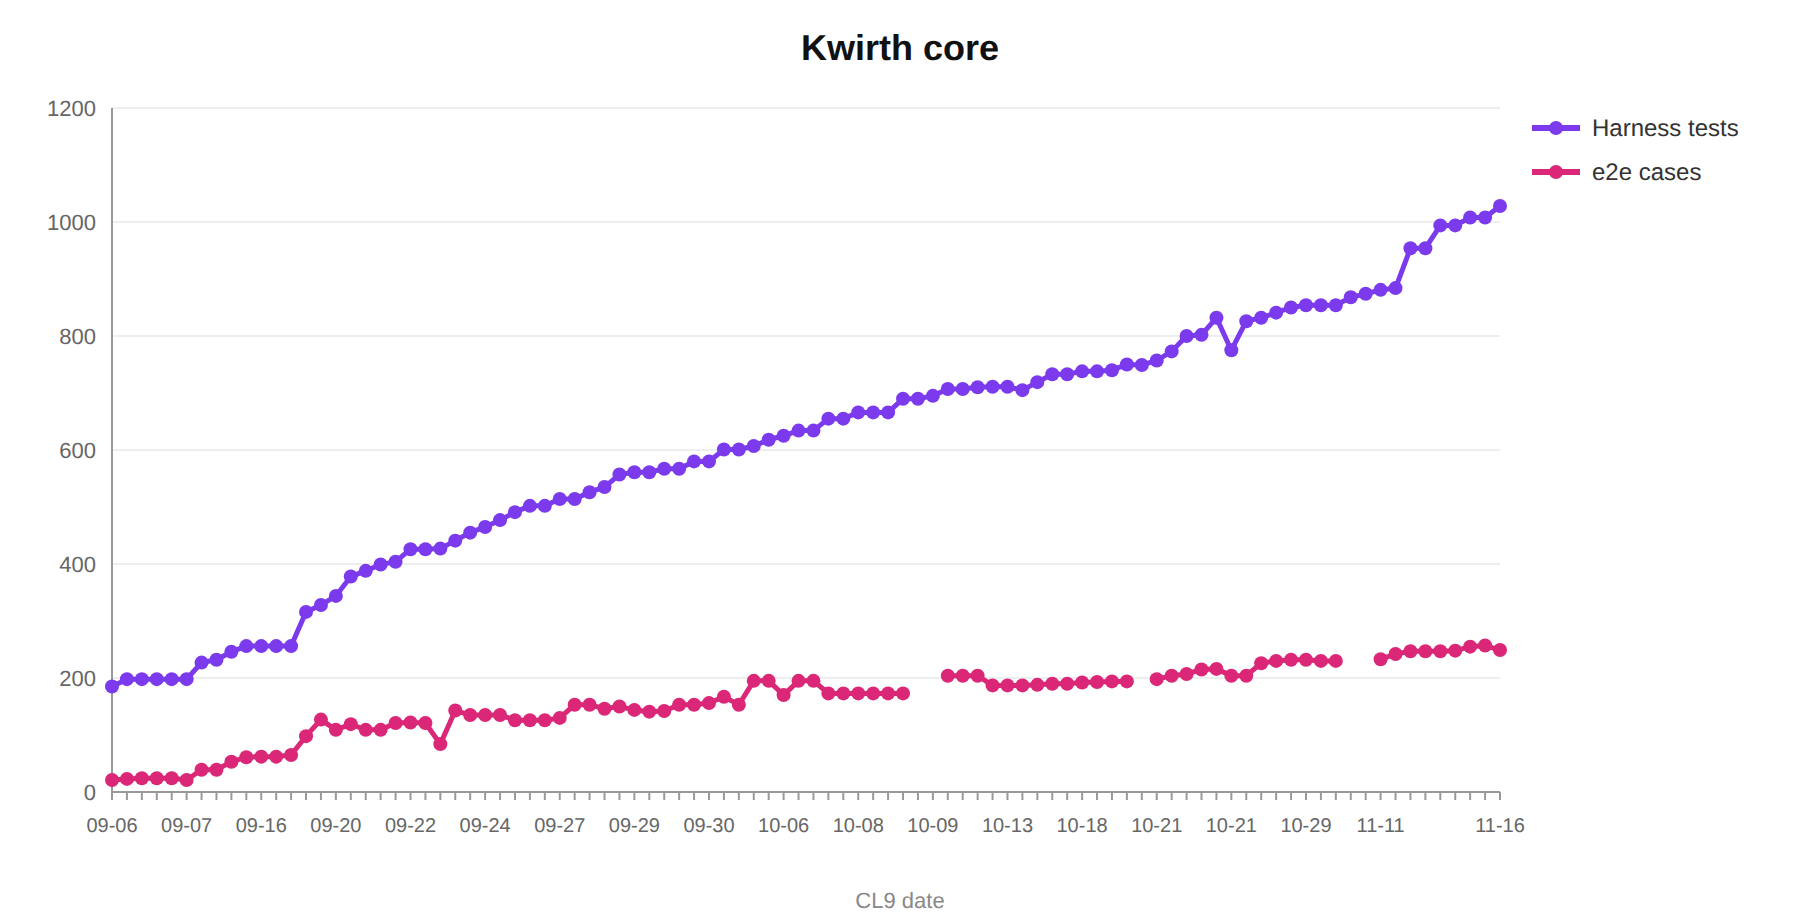
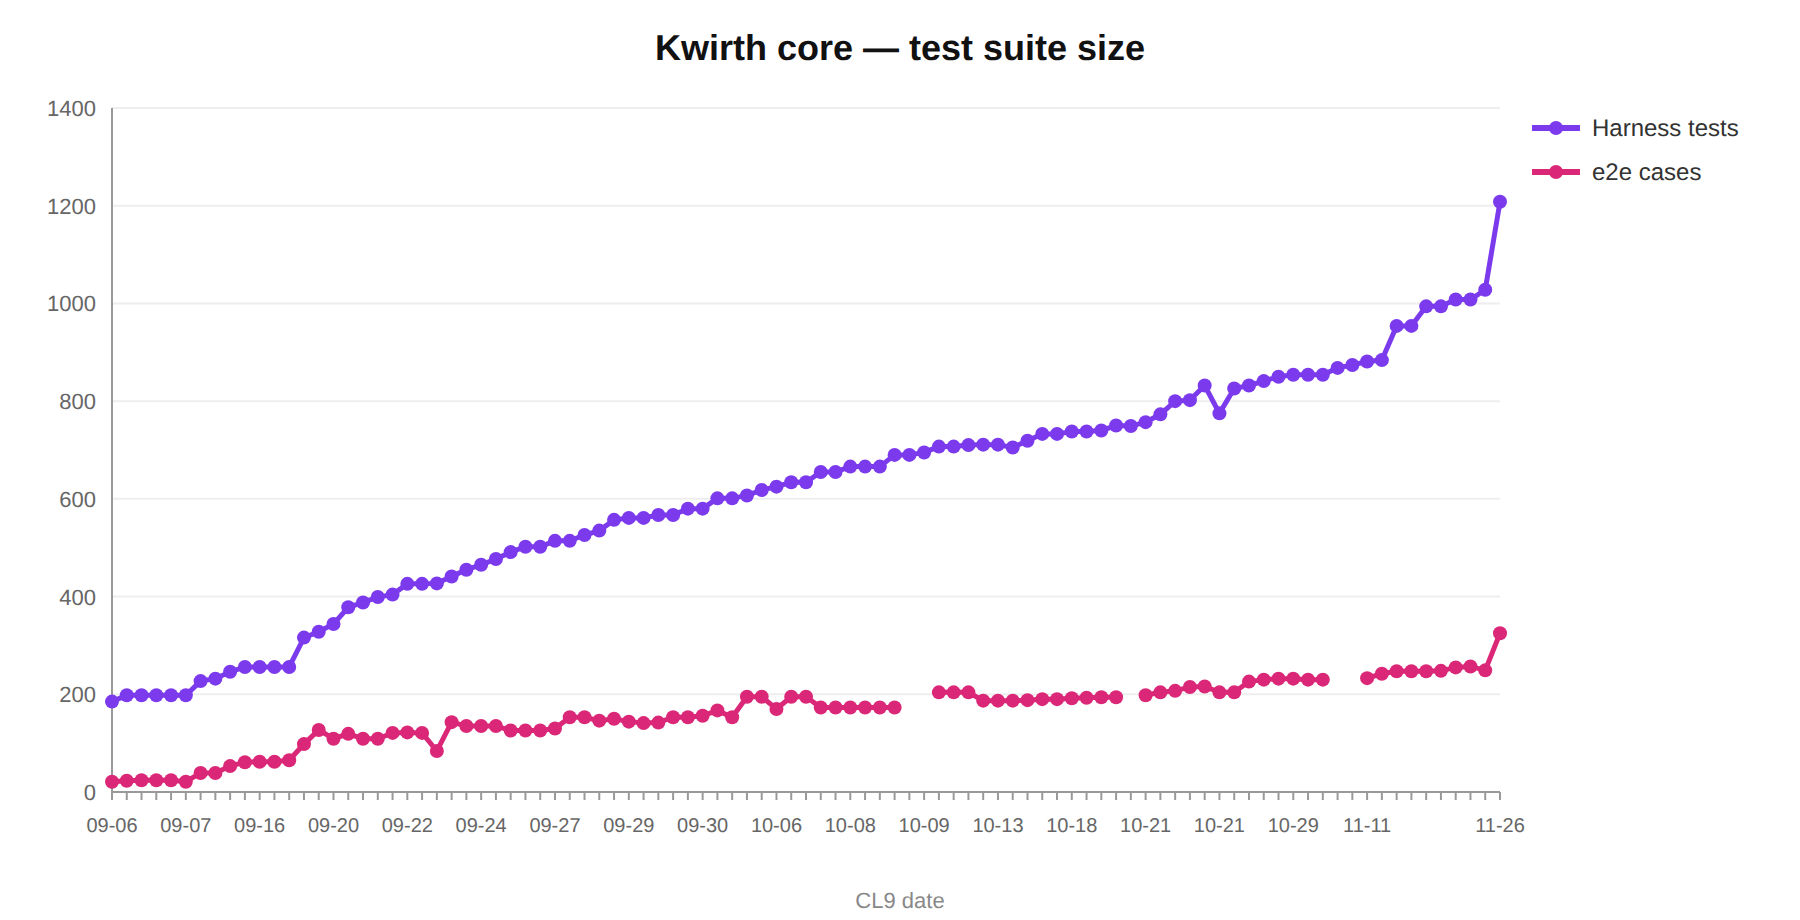
docs(plans): cluster-login closed and moved to completed — QA validated; core test metrics

diff --git a/front/src/components/home/ManageClusters.tsx b/front/src/components/home/ManageClusters.tsx
@@ -48,7 +48,7 @@ const ManageClusters: React.FC<IManageClustersProps> = (props:IManageClustersPro
     const [routeResolver, setRouteResolver] = useState<string>(DIRECT_ROUTE)
     const [routeUid, setRouteUid] = useState<string>('')
     const [inUse, setInUse] = useState<boolean>(true)
-    // How it authenticates (plans/cluster-login): an access key pasted in, or a sign-in to the remote when used
+    // How it authenticates (plans/completed/cluster-login): an access key pasted in, or a sign-in to the remote when used
     const [credentials, setCredentials] = useState<EClusterCredentials>(EClusterCredentials.KEY)
     const isLogin = credentials === EClusterCredentials.LOGIN
     const [keyRevealed, setKeyRevealed] = useState<boolean>(false)     // the API key is a secret: masked, with the eye
@@ -309,7 +309,7 @@ const ManageClusters: React.FC<IManageClustersProps> = (props:IManageClustersPro
                                 <TextField value={selectedCluster?.id || ''} disabled variant='standard' label='Id'></TextField>
                                 <TextField value={url} onChange={(e) => setUrl(e.target.value)} disabled={selectedCluster?.home} variant='standard' label='URL'></TextField>
                                 {/*
-                                    How it authenticates, apart from how it is reached (plans/cluster-login, D1): an API key, or
+                                    How it authenticates, apart from how it is reached (plans/completed/cluster-login, D1): an API key, or
                                     a sign-in to the remote with any of ITS users when the cluster is used. On its row, the session
                                     of a Login entry and its Sign out — always there (empty / disabled for an API key entry), so
                                     choosing one or the other moves nothing.

diff --git a/front/src/tools/Global.ts b/front/src/tools/Global.ts
@@ -158,7 +158,7 @@ export const recheckCluster = async (cluster: Cluster): Promise<boolean> => {
                 try {
                     /*
                         A LOGIN entry is checked on /config/cluster, which asks for the key: /config/info is public and
-                        would answer 200 to a session that is gone. Refused = expired or revoked (plans/cluster-login, D5).
+                        would answer 200 to a session that is gone. Refused = expired or revoked (plans/completed/cluster-login, D5).
                     */
                     const path = isLoginCluster(cluster) ? 'config/cluster' : 'config/info'
                     const response = await fetch(`${base}/${path}`, { ...addGetAuthorization(cluster.accessString), signal: AbortSignal.timeout(RECHECK_TIMEOUT_MS) })

diff --git a/front/src/App.tsx b/front/src/App.tsx
@@ -2618,7 +2618,7 @@ const App: React.FC<IAppProps> = (props:IAppProps) => {
  
     /*
         Saves the user's cluster list (everything but the home entry). Used by Manage clusters on close and by a
-        sign-in to a LOGIN cluster, which keeps the key it obtained in its entry (plans/cluster-login, D2).
+        sign-in to a LOGIN cluster, which keeps the key it obtained in its entry (plans/completed/cluster-login, D2).
         Returns whether it was sent: false when the list was never loaded.
     */
     const saveClusterList = (cc: Cluster[]): boolean => {

diff --git a/front/src/components/home/ResourceSelector.tsx b/front/src/components/home/ResourceSelector.tsx
@@ -248,7 +248,7 @@ const ResourceSelector: React.FC<IResourceSelectorProps> = (props:IResourceSelec
 
     /*
         A LOGIN entry with no session, or whose session expired, is not selected straight away: the sign-in dialog
-        opens first (plans/cluster-login), and only once signed in is the cluster selected. Cancelling leaves the
+        opens first (plans/completed/cluster-login), and only once signed in is the cluster selected. Cancelling leaves the
         selection as it was.
     */
     const onChangeCluster = (event: SelectChangeEvent) => {

diff --git a/front/tests/clusterLogin.test.ts b/front/tests/clusterLogin.test.ts
@@ -3,7 +3,7 @@ import assert from 'node:assert/strict'
 import { clusterLoginOutcomeOf, clusterLoginUnreachable, EClusterLoginOutcome } from '../src/tools/ClusterLoginOutcome.ts'
 
 /*
-    What a sign-in against a REMOTE Kwirth came to (plan: plans/cluster-login/PRD.md), from the answers its
+    What a sign-in against a REMOTE Kwirth came to (plan: plans/completed/cluster-login/PRD.md), from the answers its
     POST /login really gives (back/src/api/LoginApi.ts). Each outcome has to tell the user what to do: a bare
     'failed' is what this replaces.
 */

diff --git a/front/src/model/Cluster.ts b/front/src/model/Cluster.ts
@@ -2,7 +2,7 @@ import { EClusterFlavour, ERancherRole, IClusterRoute, KwirthData } from '@kwirt
 import { MetricDefinition } from '@kwirthmagnify/kwirth-common-front'
 
 /*
-    How an entry of the cluster list authenticates against its Kwirth (plan: plans/cluster-login/PRD.md, D1). It is
+    How an entry of the cluster list authenticates against its Kwirth (plan: plans/completed/cluster-login/PRD.md, D1). It is
     independent of HOW it is reached (direct or through a router, `route`): a cluster behind a bridge can go with
     a login too.
 */

diff --git a/front/src/tools/ClusterLogin.ts b/front/src/tools/ClusterLogin.ts
@@ -7,7 +7,7 @@ import { clusterLoginOutcomeOf, clusterLoginUnreachable, EClusterLoginOutcome, I
 
 /*
     Signing in to a REMOTE Kwirth from an entry of the cluster list whose credentials are LOGIN
-    (plan: plans/cluster-login/PRD.md).
+    (plan: plans/completed/cluster-login/PRD.md).
 
     The remote's user has nothing to do with the user of THIS Kwirth: logged in here as 'admin', the remote may be
     entered as any of its own users, with its permissions. The password is sent the way Kwirth's own login sends it

diff --git a/front/src/components/home/ClusterLoginDialog.tsx b/front/src/components/home/ClusterLoginDialog.tsx
@@ -10,7 +10,7 @@ import { useEscapeToClose } from '../../tools/useKeyboard'
 
 /*
     Sign in to a REMOTE Kwirth from an entry of the cluster list whose credentials are LOGIN
-    (plan: plans/cluster-login/PRD.md).
+    (plan: plans/completed/cluster-login/PRD.md).
 
     The user and password are the remote's, not this Kwirth's: logged in here as 'admin', the remote may be entered
     as any of its users. That is also why the browser must NOT fill the fields in: it is the same domain as this

diff --git a/front/src/tools/ClusterLoginOutcome.ts b/front/src/tools/ClusterLoginOutcome.ts
@@ -1,5 +1,5 @@
 /*
-    What a login against a REMOTE Kwirth came to, from its answer (plan: plans/cluster-login/PRD.md).
+    What a login against a REMOTE Kwirth came to, from its answer (plan: plans/completed/cluster-login/PRD.md).
 
     Kept apart from the request and with no imports on purpose: it is the part with rules — which status means
     what, and the message the user reads — and it is tested on its own (front/tests/clusterLogin.test.ts).

diff --git a/docs/qa/test-metrics-history.md b/docs/qa/test-metrics-history.md
@@ -120,6 +120,7 @@
 
 | Fecha | Cierre | Harness | Cobertura (líneas / ramas / funcs) | e2e | Notas |
 |---|---|---|---|---|---|
+| 2026-11-26 | **Clusters con credenciales *Login*** (solo front; plan `cluster-login`) + localStorage por contexto, Manage clusters sin filas duplicadas y la causa real de un manifest ilegible (build 0.6.134) | **1208** ✅ · 4 ⏭ (+180) | 83.88 % / 80.01 % / 80.83 % (c8) | **65 specs · 325 casos** (`cluster-login` nuevo, 4 casos: guardar *Login* sin key con el diálogo del mismo tamaño y *Sign out* en la fila de *Credentials*; entrar con una contraseña mala y luego la buena como **otro** usuario del remoto; key revocada → *session expired* y el diálogo dice que caducó; *Sign out*. Regresión de clusters y selector —`cluster-login`, `manage-clusters-enabled`, `manage-clusters-route`, `resource-selector-views`, `cluster-flavour`, `key-revoke-live`, `zz-selector-width`—: 24 ✅ · 3 ⏭) | Del +180 del harness, **3 son de este cierre** (`marketplaceFetchCause`: el log de un manifest ilegible lleva `err.cause`, código y mensaje, y no inventa nada sin causa); el resto entró con los cierres de otras sesiones desde el 2026-11-16, que no dejaron fila. **Tests unitarios del front** nuevos (`npm run test:unit` en `front/`, `node --test` sin dependencias): 15 —`clusterLogin` 7 (traducción de la respuesta del `POST /login` remoto: 200, 201, 401, 403 por IP, 429 con `Retry-After`, inalcanzable) y `scopedStorage` 8 (un `localStorage` por contexto: Kwirths bajo distintas rutas del mismo dominio ya no se pisan)—; no entran en la columna de harness, que es la del back. La caducidad se detecta en `/config/cluster` porque `/config/info` es público |
 | 2026-11-16 | **`clusterUrl` vivo y keepalive del canal remoto** (QA de un router, Fase 5) + `plugin/ops@0.2.28`/`0.2.29`, `plugin/magnify@0.3.4`, `plugin/iter@0.3.2` | **1028** ✅ · 4 ⏭ (+20) | 81.03 % / 79.26 % / 75.54 % (c8) | **66 specs · 249 casos**: 174 ✅, **17 ❌ por entorno**, 17 ⏭, 41 sin ejecutar (detrás de los rojos) | **`clusterUrl` vivo**: el de un tab se calculaba una vez, con el ticket de ruta de ese momento (10 min de vida), y lo que el tab abría después por un router (segunda shell de ops, ventana de Magnify, `fetch` de un diálogo, reconexión) salía con 4401. Ahora es un getter (`bindClusterUrl`) y los bucles de reconexión lo leen en cada intento; el ticket sigue en 10 min. Revisadas las copias en todos los plugins (Magnify e Iter dejaron de copiarla). **Keepalive**: un mensaje recibido ya es señal de vida; bajo carga el pong esperaba detrás de los datos y el enlace de Ianus se daba por muerto (test nuevo, comprobado que falla sin el arreglo). **Scopes de otro canal** ya no se avisan como inexistentes por cada objeto (test nuevo). **Cerrar un tab cierra su WebSocket** (seguía abierto hasta recargar). 🔴 **Los 17 rojos son del entorno de dev, no del cambio** (comprobado contra `/core/plugins` y `/core/dces`): censor, pinocchio, el DCE de ejemplo y nettools no están instalados (config-bundle, packs, dce-api/manager/nettools, nettools-channel, pinocchio ×3); sin extensión de login servida (login-extensions ×5, rojo conocido); sin conector de IdP (idp-manager); `manage-clusters-route` espera que no haya routers y dev tiene Ianus y bridge; `zz-selector-width` no encuentra selector en su diálogo. ⚠ `webhookReceiver` (harness) falló una vez en la suite entera con un `/tmp/kwirth-webhook-*.tgz` que ya no estaba y pasa solo tres de tres: intermitente, por anotar |
 | 2026-11-15 | **`enabledWhen` en los formularios de config** (`kwirth-common@0.5.87`; plan `sender-script`, stream C) + `dce/ssh@0.1.0` y `sender/script@0.2.0` | **1008** ✅ · 4 ⏭ (+0) | 81.09 % / 79.57 % / 75.20 % (c8) | **64 specs · 257 casos** (`sender-script` +2: los campos SSH se ven siempre, **deshabilitados** con *This Kwirth* y habilitados con *Another machine (SSH)*; un requerido deshabilitado no bloquea *Add* y al habilitarse sí. Y, del QA, la clave privada **se edita oculta**: lo tecleado, borrado o pegado sobre los puntos cae donde está el cursor. Corrida del spec: 9 ✅. Regresión de los formularios genéricos —`senders-manager`, `sender-help`, `providers-manager`, `provider-config-test`, `kwirth-portability`, `idp-manager`—: 23 ✅ · 9 ⏭ · 1 ✘, el ajeno ya anotado `idp-manager:108`) | Sin cambios en el back: harness y cobertura, los de la fila anterior. `IConfigFieldDef.enabledWhen` (`IConfigFieldEnabledWhen { field, values }`) e `isConfigFieldEnabled(field, schema, values)` en common, con el `default` del otro campo mientras no tenga valor (+5 tests en common, 40). Los dos formularios (`ConfigFields`, `ConfigListDialog`) y `ConfigTextArea` deshabilitan —nunca ocultan— y no exigen un requerido deshabilitado. Un `textarea` secreto deja de ser de solo lectura mientras está oculto (`front/src/tools/maskedText.ts`: la edición se localiza por el cursor tras ella) |
 | 2026-11-14 | **Campo `textarea` y asistente de IA en los formularios de config** (`kwirth-common@0.5.86`; plan `sender-script`, stream A) + `sender/script@0.1.0` | **1008** ✅ · 4 ⏭ (+14) | 81.09 % / 79.57 % / 75.20 % (c8) | **64 specs · 255 casos** (`sender-script` nuevo, 7 casos: valores por defecto del schema, textarea monoespaciado de altura fija, título encima con el botón de IA al lado, botón deshabilitado sin LLM, redacción con `/assist` interceptado sin secretos en la petición, el 429, y el guardado verbatim que además cierra la edición. Corrida del spec: 7 ✅) | `IConfigFieldDef` gana `'textarea'`, `secret` y `aiInstructions`; `POST /core/aiconfig/assist` redacta el valor de un campo con un LLM del core (**solo texto**: sin `tools`, sin secretos en el prompt; 429 por límite de uso, 502 si falla el modelo). Un único predicado de secreto (`isSecretFieldDef`) para la exportación sin credenciales, el enmascarado de IdP y el prompt. `ConfigListDialog`: los `default` del schema se aplican en *New*, y guardar cierra la edición (afecta también a webhooks). +14 tests, todos de este stream (`aiAssist` 8, `AiConfigApiAssist` 5 contra un modelo OpenAI-compatible falso, `coreManagedConfig` +1). QA manual saltado por petición explícita de bbpm |

diff --git a/plans/README.md b/plans/README.md
@@ -63,6 +63,7 @@ Terminados y en producción. Se consultan para saber **por qué** algo es como e
 | plan | entregado |
 |---|---|
 | [extension-config](completed/extension-config/PLAN.md) · [PRD](completed/extension-config/PRD.md) | ✅ **cerrado el 2026-11-22.** Un solo almacén para la configuración de **las ocho familias** (plugin, provider, router, login, IdP, sender, webhook, AI toolset): `ExtensionConfigStore`, **un Secret por extensión** (`kwirth-<tipo>-<id>-config`), todo, no solo los secretos; secretos REALES en el GET y con ojo en la UI. Se valida al guardar contra el esquema (`400 {error, fields}`, campo en rojo) y **Save se deshabilita** con obligatorios vacíos en todos los diálogos. **P5:** desinstalar conserva la configuración salvo la casilla *Also delete its configuration* (un webhook conserva sus URLs; un toolset, settings **y concesiones**). Los webhooks guardan su base. Export homogéneo: redacción en todas las familias (provider y plugin salían en claro), router y login entran en el bundle, solo viaja lo guardado. **AI toolsets con settings:** `configSchema` + `host.config` en cada invocación, pestaña *Settings* junto a *Grants* (`kwirth-common-ai@0.5.81`). Sin migración (D8); S11 limpió el k3d (copia en `/tmp`). Guía, capturas, changelog y scaffolder. **Adenda pendiente:** settings por plugin (override en la concesión y, si hace falta límite real, `host.k8s` acotado por el core), para `k8s-deploy`. Fuera: subir `common-ai` 0.5.81 en los consumidores, en la sesión de cada producto |
+| [cluster-login](completed/cluster-login/PLAN.md) · [PRD](completed/cluster-login/PRD.md) | ✅ **cerrado el 2026-11-26** (build 0.6.134, solo front). Una entrada de la lista de clusters puede tener **Credentials = Login** en vez de una key: al usarla, el front pide usuario y contraseña **del Kwirth remoto** —cualquiera de sus usuarios, independiente del de esta sesión—, hace login allí y guarda la key que obtiene en la propia entrada (D2). Credenciales y conectividad son cosas aparte (D1): funciona también por Bridge o Ianus. Estados *login required*, *as &lt;user&gt;* y *session expired* (detectada en `/config/cluster`, porque `/config/info` es público), con el diálogo diciendo que caducó (D5); *Sign out* olvida la sesión. Solo login: un cambio de contraseña pendiente se dice, no se hace (D4). Fuera: SSO del remoto (V2, D6) y reabrir las pestañas vivas tras el login |
 | [extension-taxonomy](completed/extension-taxonomy/PLAN.md) · [PRD](completed/extension-taxonomy/PRD.md) · [tabla](completed/extension-taxonomy/ASSIGNMENT.md) | ✅ **cerrado el 2026-11-20.** Toda extensión, de los once tipos, dice **para qué sirve** con `tags` de un **catálogo cerrado** de 55 (`EExtensionTag`, `kwirth-common@0.5.95`/`0.5.96`). Etiquetadas las 128 según la tabla, en sus `package.json` y en todas las entradas de los manifests (público, jfvilas y privado). Chips en tarjetas y filas de los gestores, y un **filtro de tags por sección** (instaladas y catálogo, AND). Los builds **copian** los tags sin validarlos (D6: 60 extensiones no dependen de common); el catálogo lo guardan los diez scaffolders (`--tags`), el core (descarta lo que no está) y un test del árbol. Guía, captura y changelog. Fuera: `llm-router` lleva sus tags sin commitear (otra sesión) |
 | [login-ip-filter](completed/login-ip-filter/PLAN.md) · [PRD](completed/login-ip-filter/PRD.md) | ✅ **cerrado el 2026-11-12.** El admin restringe desde qué IPs/CIDR se inicia sesión —login, cambio de contraseña, inicio y callback del IdP, signup— en la pestaña *Login access* de *Kwirth settings* (`kwirth.settings`). Interruptor **apagado de inicio**; encendido con la lista vacía deja entrar a todos en ejecución y no se puede guardar; tampoco una lista que deja fuera a quien guarda o importa. Se lee en cada intento: la vía de escape es `kwirth.settings` con `enabled: false`, sin reiniciar (validado en QA). De paso, la **IP del cliente deja de ser falsificable**: `X-Forwarded-For` solo desde proxies de confianza, leído de derecha a izquierda, lo que arregla también el rate limiter. `kwirth-common@0.5.82`; +65 tests de back, +5 casos e2e; guía y changelog. Consumidores del export revisados: no les afecta. **Ampliado el 2026-11-14 (L5):** un comentario por entrada de las dos listas (`ILoginIpEntry`, `kwirth-common@0.5.85`, sin migración) y la pestaña *General* en tarjetas. **L6:** botón *Add my IP*, habilitado solo cuando la dirección vista es la del admin (conexión directa o proxy de confianza) |
 | [user-tags](completed/user-tags/PLAN.md) · [PRD](completed/user-tags/PRD.md) | ✅ **cerrado el 2026-11-12.** El usuario de Kwirth lleva **tags** `<extensión>:<valor>` que pone el admin en *User security* (chips; uno mal formado sale en rojo, con el motivo, y *Save* espera); el core los guarda, valida la forma y los entrega en `IUserInfo` por `getUsers()`, **sin interpretarlos y sin dar permisos**. `kwirth-common@0.5.80`: `USER_TAG_RE`, `normalizeUserTags`, `userTagsProblem`, `userTagsOf`. Del QA: un tag escrito sin Enter se perdía al guardar — ahora lo escrito cuenta. La exportación de configuración no lleva usuarios: nada que portar. Primer consumidor: un plugin de pago. V2: grupos del IdP → tags, catálogo declarado por las extensiones, tags al aprobar una solicitud de acceso |

diff --git a/plans/completed/cluster-login/PLAN.md b/plans/completed/cluster-login/PLAN.md
@@ -1,7 +1,10 @@
 # Clusters con conexión «login» — PLAN
 
-> **ESTADO — F1–F5 implementadas, pendiente de QA del usuario** (2026-11-26): 15 tests unitarios, e2e
-> `cluster-login.spec.ts` 4/4, regresión de Manage clusters en verde.
+> ✅ **ESTADO — CERRADO el 2026-11-26** (build 0.6.134). F1–F5 entregadas y **QA del usuario validado**: 15 tests
+> unitarios del front (`npm run test:unit`), e2e `cluster-login.spec.ts` 4/4 y la regresión de clusters y
+> selector en verde (24 ✅ · 3 ⏭). Guía (*Signing in to a cluster*, con captura del diálogo por
+> `capture-clusters.spec.ts`), website (*Kwirth Mesh*, *Getting started*) y changelog. Lo que queda fuera está
+> abajo, en *Fuera de esta versión*.
 >
 > Cuelga de [PRD.md](PRD.md) (D1–D6). Todo es **front**: el back del remoto ya da lo necesario (`POST /login`, CORS)
 > y la lista de clusters se guarda en el back propio tal cual, sin interpretarla.
@@ -51,6 +54,14 @@ La key obtenida va en el `accessString` de siempre (D2): el resto del front no c
   abría el login al volver a elegirlo. El diálogo se abre desde el `onClick` de la opción.
 - El formulario del diálogo lleva `autocomplete` `off`/`new-password`: es el mismo dominio que este Kwirth y el
   navegador ofrecería sus credenciales, que no son las del remoto.
+- **Del QA (disposición de Manage clusters):** el primer reparto metía textos de ayuda que cambiaban el tamaño
+  del diálogo según la opción, y dejaba el selector varias filas por debajo de *API Key*. Queda: *Credentials*,
+  el estado de la sesión y **SIGN OUT** en una fila, y *API Key* justo debajo. El selector se estrecha a 130 para
+  que el estado (*Signs in on use*, *login required*, *as &lt;user&gt;*…) quepa sin cortarse. El e2e lo fija: alto
+  del diálogo igual al cambiar a *Login*, SIGN OUT en la fila del selector, *API Key* debajo y el texto sin elipsis.
+- Tipos que no estaban en el PLAN: `EClusterLoginOutcome` / `IClusterLoginOutcome` (resultado del login remoto),
+  `EClusterLoginReason` (NO_SESSION / EXPIRED, por qué se abre el diálogo) y `loginExpired` en `Cluster` (solo en
+  memoria, no se persiste).
 
 ## Fuera de esta versión
 
